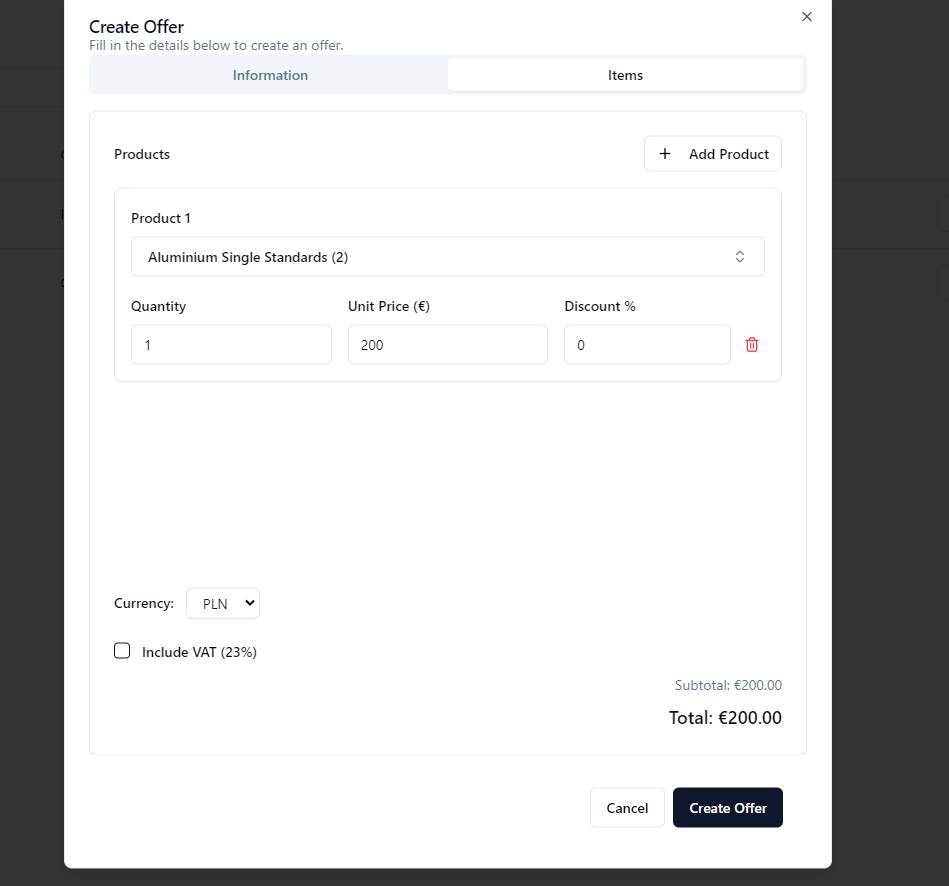
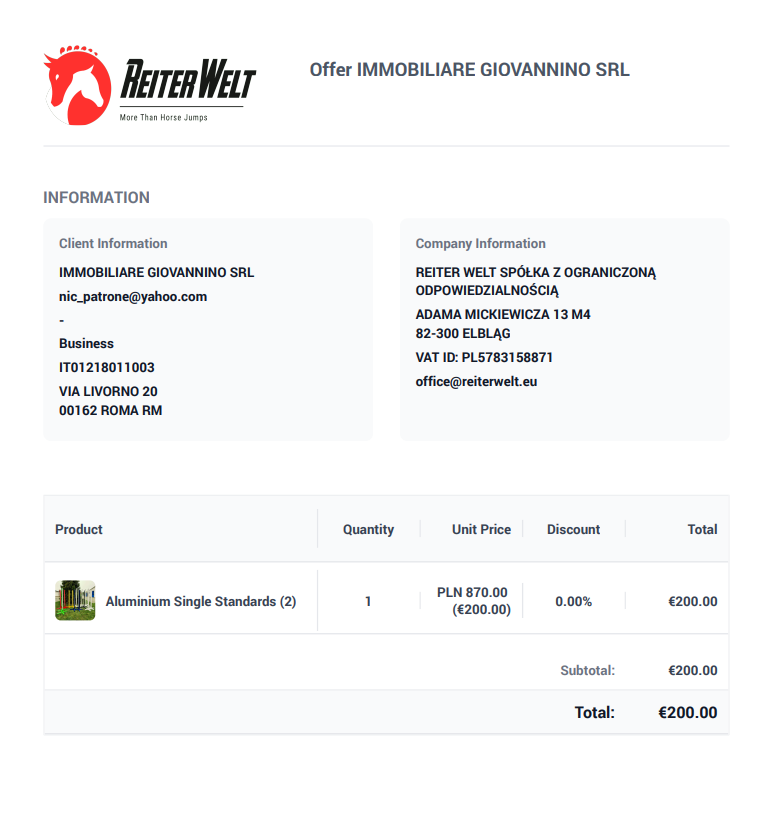
Agent query: Please check if the currency selection and display is working correctly with the updated exchange rate of 4.3, especially in the offer form and PDF generation. Verify that when PLN is selected, both PLN and EUR values are shown in the format 'PLN 870.00 (€200.00)'

diff --git a/client/src/components/PDFGenerator.tsx b/client/src/components/PDFGenerator.tsx
@@ -384,14 +384,22 @@ function OfferPDF({ offer, client, items, fileName, settings }: OfferPDFProps) {
           {/* Subtotal Row */}
           <View style={styles.totalsRow}>
             <Text style={styles.totalsLabel}>Subtotal:</Text>
-            <Text style={styles.totalsValue}>€{totals.total.toFixed(2)}</Text>
+            <Text style={styles.totalsValue}>
+              {offer.currency === 'EUR' ?
+                `€${totals.total.toFixed(2)}` :
+                `PLN ${(totals.total * Number(offer.exchangeRate)).toFixed(2)} (€${totals.total.toFixed(2)})`}
+            </Text>
           </View>
 
           {/* VAT Row (if applicable) */}
           {offer.includeVat && (
             <View style={styles.totalsRow}>
               <Text style={styles.totalsLabel}>VAT (23%):</Text>
-              <Text style={styles.totalsValue}>€{vat.toFixed(2)}</Text>
+              <Text style={styles.totalsValue}>
+                {offer.currency === 'EUR' ?
+                  `€${vat.toFixed(2)}` :
+                  `PLN ${(vat * Number(offer.exchangeRate)).toFixed(2)} (€${vat.toFixed(2)})`}
+              </Text>
             </View>
           )}
 

diff --git a/db/schema.ts b/db/schema.ts
@@ -39,7 +39,7 @@ export const offers = pgTable("offers", {
   validUntil: timestamp("valid_until"),
   totalAmount: decimal("total_amount", { precision: 10, scale: 2 }),
   currency: text("currency", { enum: ['EUR', 'PLN'] }).notNull().default('EUR'),
-  exchangeRate: decimal("exchange_rate", { precision: 10, scale: 4 }).notNull().default('4.3500'), // Fixed EUR to PLN rate
+  exchangeRate: decimal("exchange_rate", { precision: 10, scale: 4 }).notNull().default('4.3'), // Fixed EUR to PLN rate
   notes: text("notes"),
   lastContact: timestamp("last_contact"),
   nextContact: timestamp("next_contact"),

diff --git a/client/src/components/OfferForm.tsx b/client/src/components/OfferForm.tsx
@@ -103,7 +103,7 @@ export default function OfferForm({
   const items = form.watch("items") || [];
   const includeVat = form.watch("includeVat");
   const currency = form.watch("currency") || "EUR";
-  const exchangeRate = form.watch("exchangeRate") || 4.3500;
+  const exchangeRate = form.watch("exchangeRate") || 4.3;
   const { subtotal, vat, total } = calculateTotal(items, includeVat);
 
   useEffect(() => {
